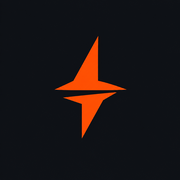
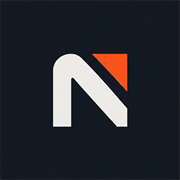
feat: adopt new Numi AI mark as site-wide brand identity
Replace the abstract spark SVG (NumiMark) with the new logo across
header, footer, and the differentiation section mark, and regenerate
favicon/apple-icon from the same source.

Changed region(s): [[0.2778, 0.1944, 0.7222, 0.7778]]

diff --git a/src/components/layout/Footer.tsx b/src/components/layout/Footer.tsx
@@ -1,7 +1,7 @@
 import { Mail, MapPin, MessageCircle } from 'lucide-react'
 import { useTranslations } from 'next-intl'
+import Image from 'next/image'
 
-import { NumiMark } from '@/components/brand/NumiMark'
 import { Wordmark } from '@/components/brand/Wordmark'
 import { Link } from '@/i18n/navigation'
 import { sectionIds, siteConfig, whatsappUrl } from '@/lib/site'
@@ -29,9 +29,16 @@ export function Footer() {
         <div className="grid gap-12 md:grid-cols-[1.5fr_1fr_1fr]">
           <div className="max-w-sm">
             <div className="flex items-center gap-2.5">
-              <span className="relative inline-flex h-6 w-6 shrink-0 items-center justify-center">
+              <span className="relative inline-flex h-6 w-6 shrink-0 items-center justify-center overflow-hidden rounded-md">
                 <span aria-hidden className="mark-halo" />
-                <NumiMark className="relative h-6 w-6 text-[var(--color-acento)]" />
+                <Image
+                  src="/images/numi-mark.png"
+                  alt=""
+                  aria-hidden
+                  width={256}
+                  height={256}
+                  className="relative h-6 w-6 object-cover"
+                />
               </span>
               <Wordmark />
             </div>

diff --git a/src/components/brand/Logo.tsx b/src/components/brand/Logo.tsx
@@ -1,7 +1,8 @@
+import Image from 'next/image'
+
 import { Link } from '@/i18n/navigation'
 import { cn } from '@/lib/utils'
 
-import { NumiMark } from './NumiMark'
 import { Wordmark } from './Wordmark'
 
 type LogoProps = {
@@ -16,9 +17,17 @@ export function Logo({ className, label }: LogoProps) {
       href="/"
       className={cn('group inline-flex items-center gap-2.5 rounded-sm', className)}
     >
-      <span className="relative inline-flex h-7 w-7 shrink-0 items-center justify-center">
+      <span className="relative inline-flex h-7 w-7 shrink-0 items-center justify-center overflow-hidden rounded-md">
         <span aria-hidden className="mark-halo" />
-        <NumiMark className="relative h-7 w-7 text-[var(--color-acento)] transition-transform duration-300 group-hover:rotate-[18deg]" />
+        <Image
+          src="/images/numi-mark.png"
+          alt=""
+          aria-hidden
+          width={256}
+          height={256}
+          priority
+          className="relative h-7 w-7 object-cover transition-transform duration-300 group-hover:rotate-[18deg]"
+        />
       </span>
       <Wordmark />
       {/* Visible text stays the accessible name; this only adds the destination. */}

diff --git a/src/components/sections/Differentiation.tsx b/src/components/sections/Differentiation.tsx
@@ -1,7 +1,6 @@
 import Image from 'next/image'
 import { useTranslations } from 'next-intl'
 
-import { NumiMark } from '@/components/brand/NumiMark'
 import { Reveal } from '@/components/motion/Reveal'
 import { sectionIds } from '@/lib/site'
 
@@ -27,9 +26,13 @@ export function Differentiation() {
       <div className="mx-auto max-w-[80rem] px-5 sm:px-8">
         <div className="grid gap-10 lg:grid-cols-12 lg:gap-16">
           <Reveal className="lg:col-span-7">
-            <NumiMark
-              className="h-8 w-8 text-[var(--color-acento)]"
+            <Image
+              src="/images/numi-mark.png"
+              alt=""
               aria-hidden
+              width={256}
+              height={256}
+              className="h-8 w-8 rounded-md object-cover"
             />
             <h2 id="diferenciacion-titulo" className="type-section-title mt-8">
               {t('title')}
